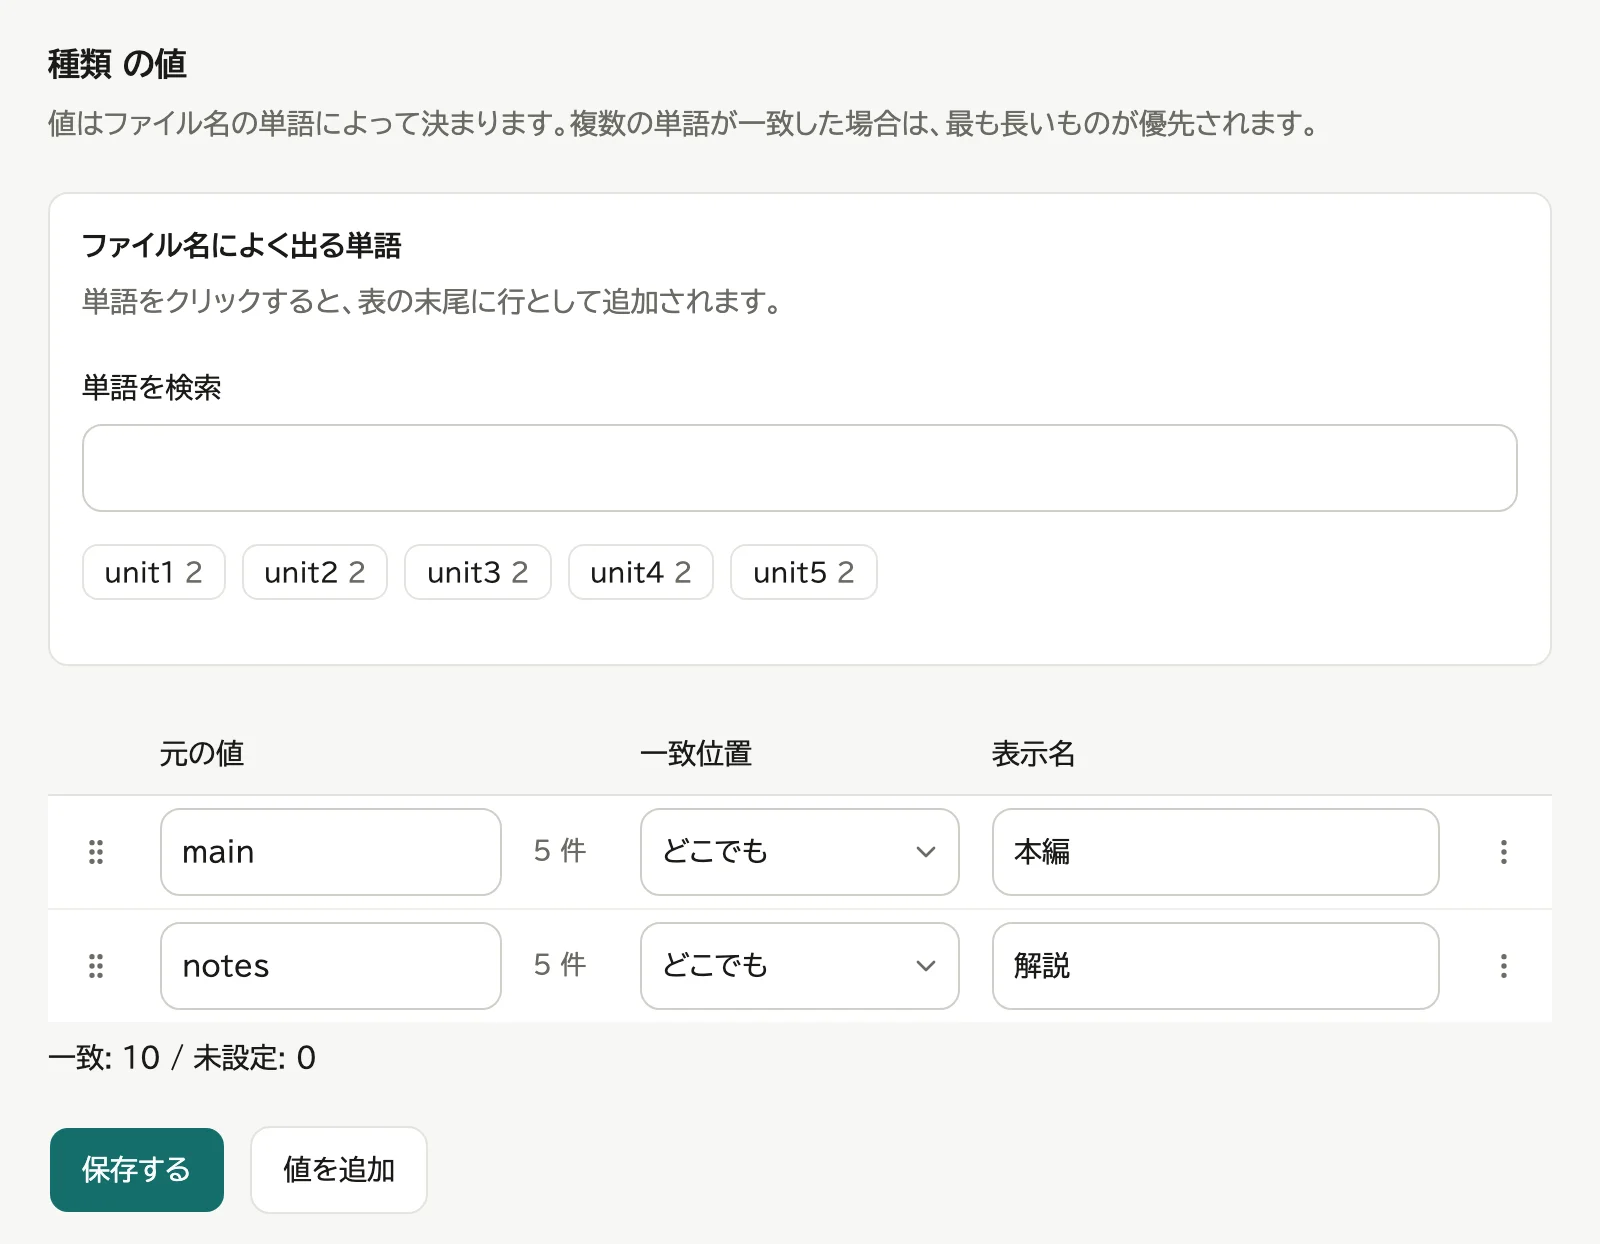
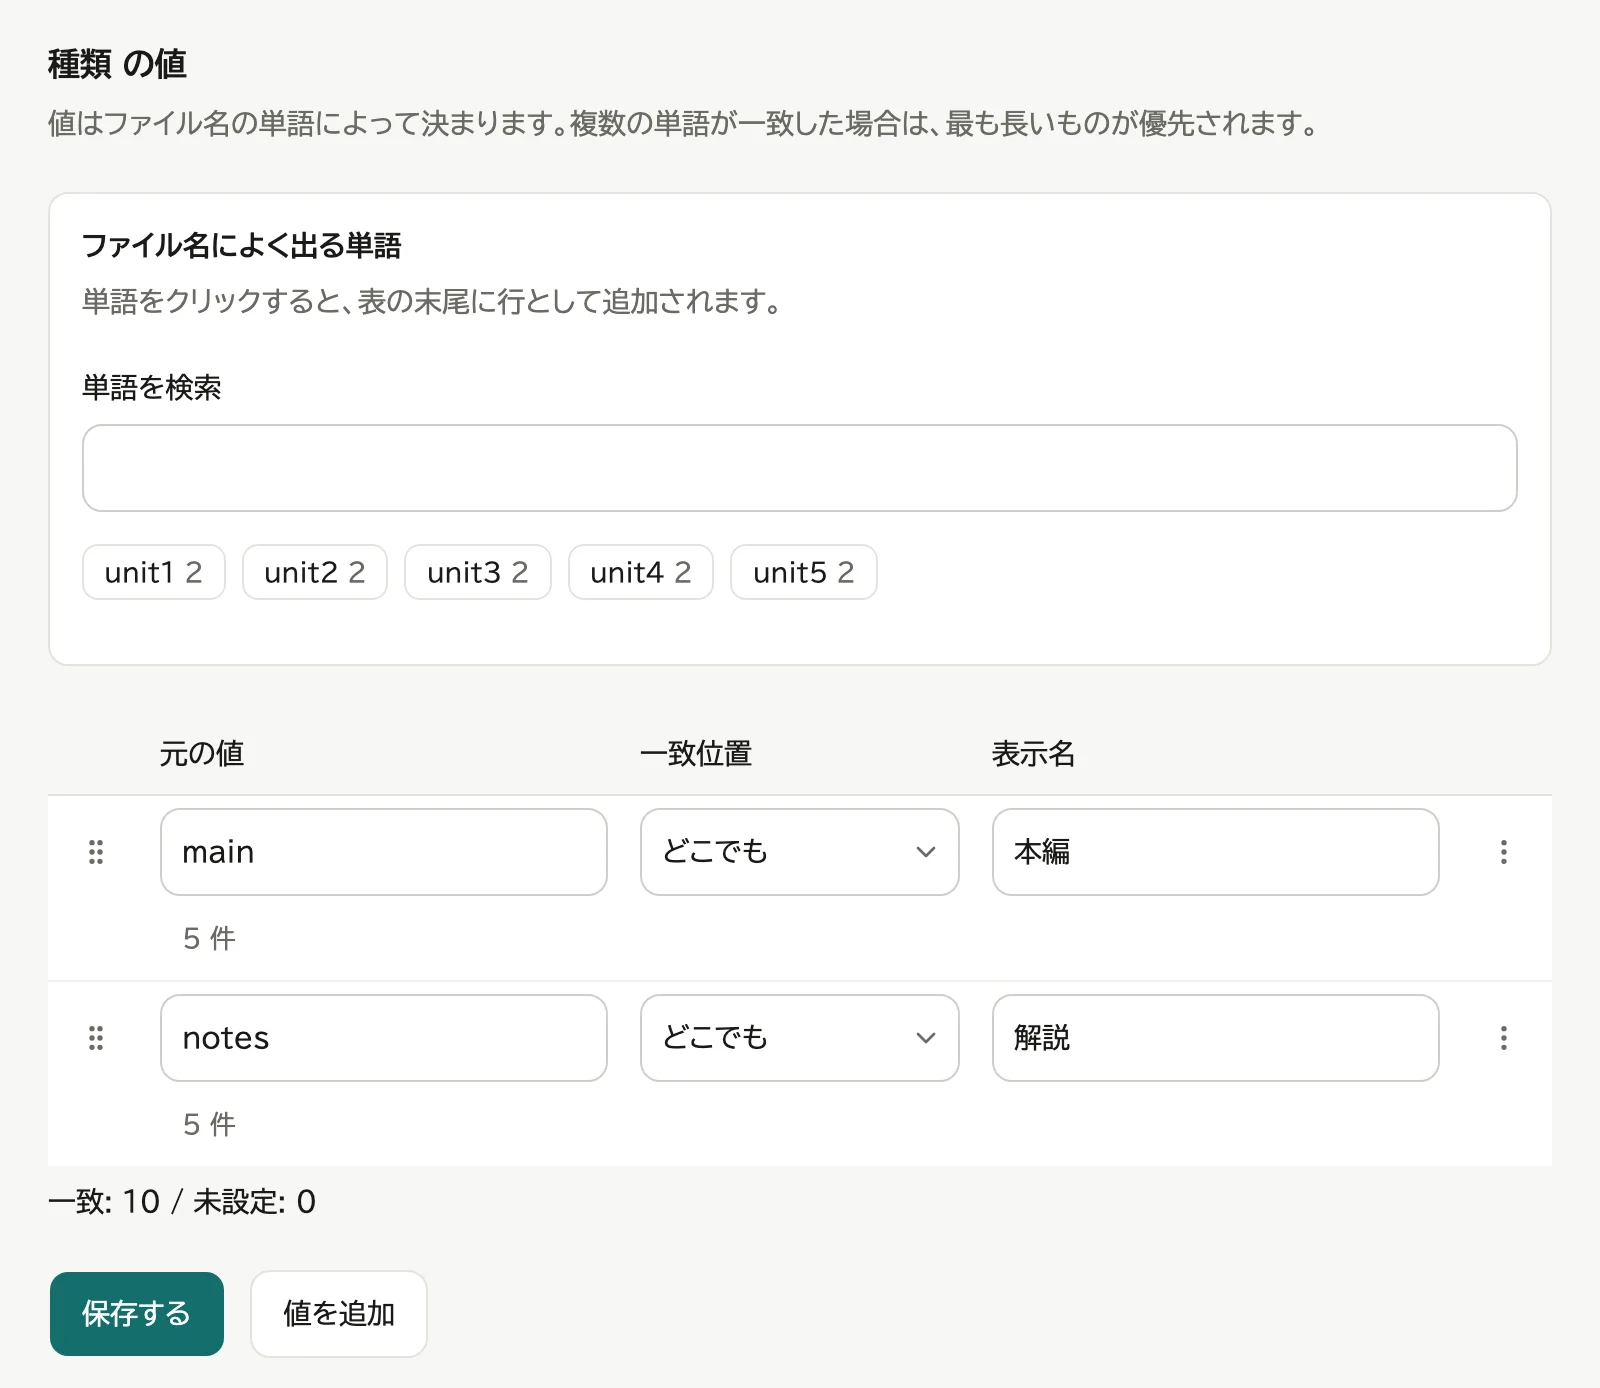
値の辞書の表で、語の件数をどの幅でも入力欄の下に出す
元の値の列を表示名と等分にしたので、広い幅でも件数を入力欄の右に並べると、長い語の入力欄が数文字ぶんの幅しか残らなかった。件数を入力欄の下に回し、入力欄に列の幅を全部渡す。

diff --git a/frontend/src/routes/contents/[id]/axes/+page.svelte b/frontend/src/routes/contents/[id]/axes/+page.svelte
@@ -942,7 +942,7 @@
 {/snippet}
 
 <!-- 語が何を指すかを確かめるため、その行で値が決まるファイルを数件開けるようにする (→ docs/archive.md「軸の設定を助ける表示」)。
-     件数は語の候補と同じく、語の右に淡い文字で「N 件」と出す。 -->
+     件数は語の候補と同じく、淡い文字で「N 件」と出す。 -->
 {#snippet rowFiles(row: AxisValueRow, index: number)}
 	{@const result = previewRows.get(row.rawValue.trim())}
 	<DropdownMenu.Root>
@@ -1286,11 +1286,9 @@
 															>
 														</div>
 													{:else}
-														<!-- スマートフォン幅では横に並べると入力欄が潰れるので、件数を下に回す。
+														<!-- 件数はどの幅でも入力欄の下に回し、入力欄に列の幅を全部渡す。横に並べると入力欄が潰れるため。
 														     件数のボタンは押せる範囲を上に 8px 広げているので、入力欄と重ならないよう 8px 空ける。 -->
-														<div
-															class="flex flex-col items-start gap-2 sm:flex-row sm:items-center sm:gap-1"
-														>
+														<div class="flex flex-col items-start gap-2">
 															<Input
 																bind:value={row.rawValue}
 																aria-label={m.archive_axes_values_raw_label({
